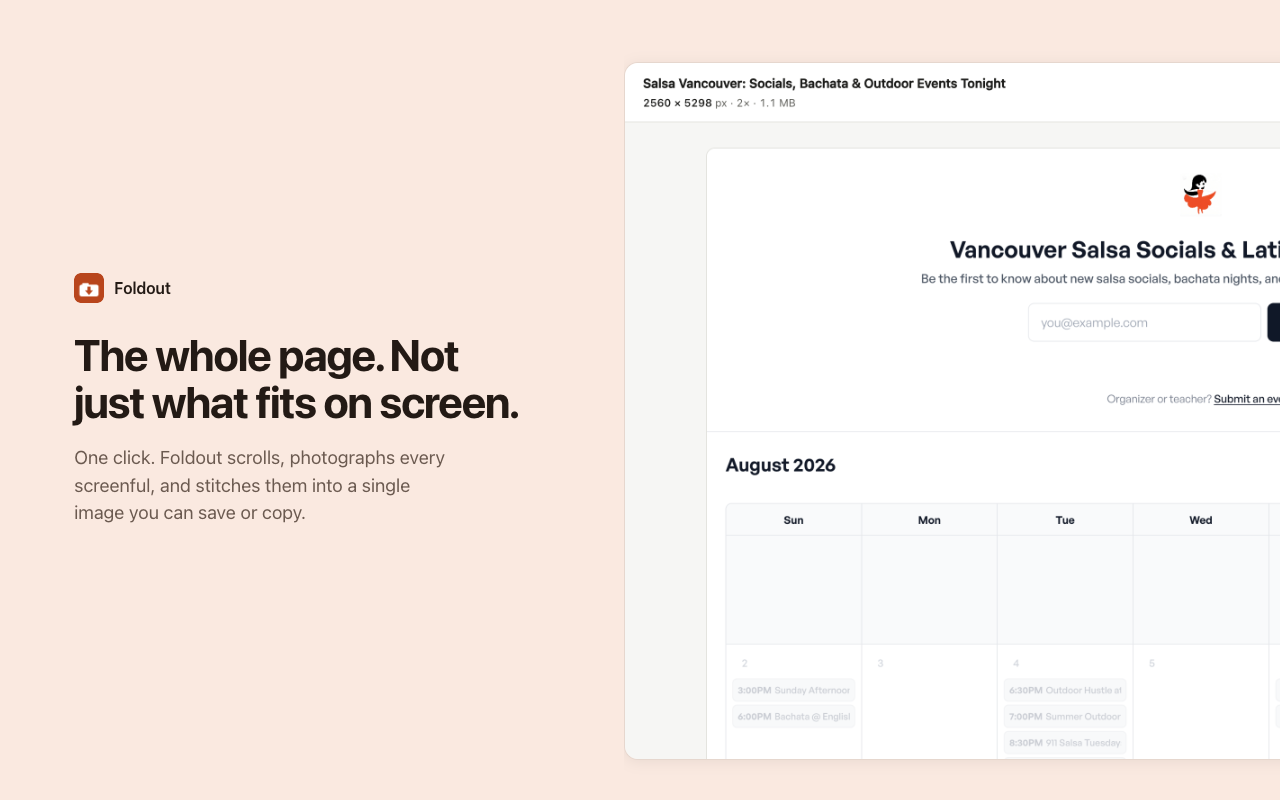
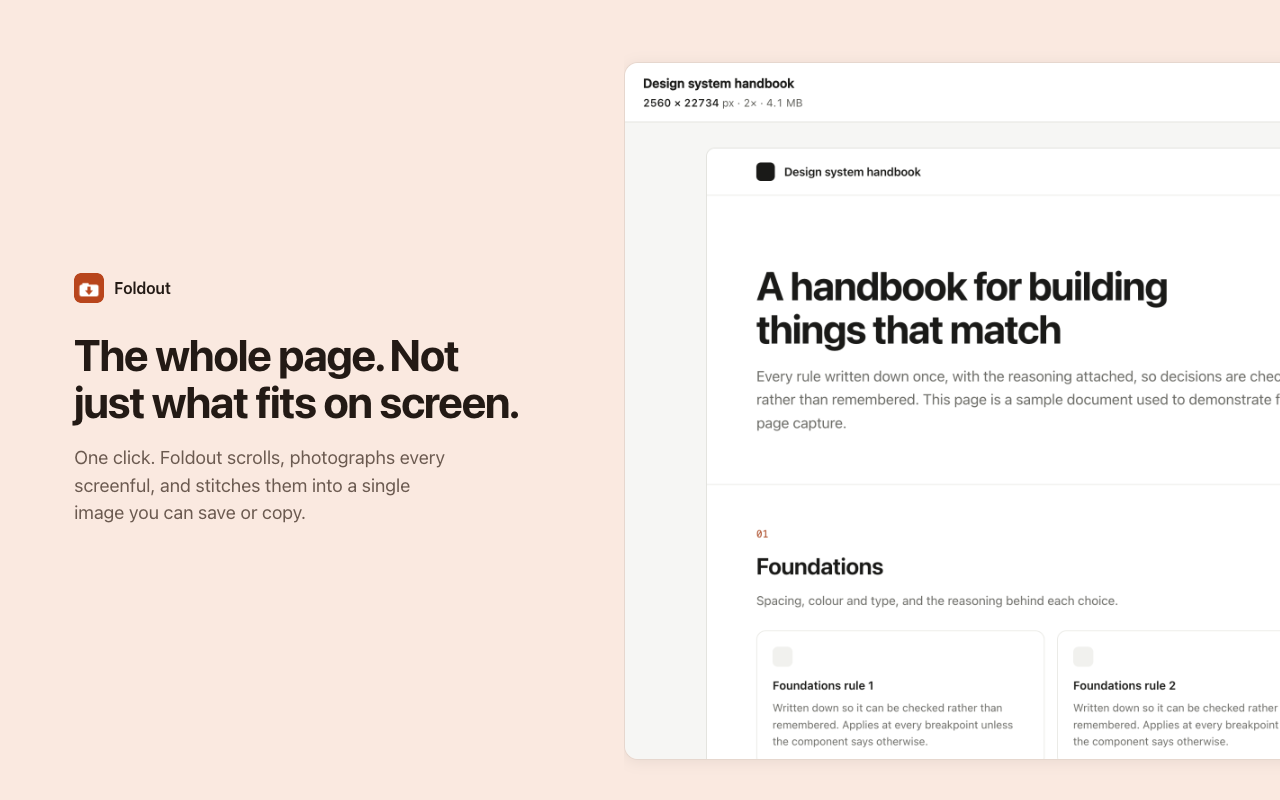
Shoot the listing images against a demo page, and make the tiles explain themselves
A recognisable real site competes for attention with the product, and someone
else's branding in a listing is the risk that delisted the incumbent. The page
is now a generic sample document generated by tools/demo-page.mjs, which also
lets it be long enough for the size claim to mean something: 2560 x 22,734.

The tiles previously showed a static window and said nothing about what the
extension does. They now show one screenful, an arrow, and the finished
full-length image.

Slide 3 showed the popup and the on-page panel together, which read as one
message printed twice. Each surface now appears exactly once across the set.

diff --git a/STORE.md b/STORE.md
@@ -158,11 +158,15 @@ Four are built and sitting in [`store-assets/`](store-assets/), all exactly
 | `3-tells-you.png` | The popup and the on-page panel, both mid-capture |
 | `4-private.png` | The permission story, spelled out |
 
-They were shot against **getthybread.com**, which you own, so no third-party
-branding appears anywhere. That matters: showing someone else's page in a
-listing is the same category of risk that got the incumbent delisted. The one
-crop that caught the GitHub and Microsoft logos in your footer was rejected and
-re-taken higher up the page.
+They are shot against a generic demo page built for the purpose, not a real
+site. That is deliberate on two counts: someone else's branded page in a listing
+is the risk that got the incumbent delisted, and a recognisable real site
+competes for attention with the thing being sold. It also lets the page be as
+tall as the demo needs, which is what makes the size claim worth showing at all
+(2560 x 22,734).
+
+The extension UI in every image is real, captured from an actual run. Only the
+page being photographed is a mock, which is the same approach Loom uses.
 
 **Deliberately missing: a fifth showing a page split into several images.**
 Neither of your sites is tall enough to trigger it. getthybread.com came back
